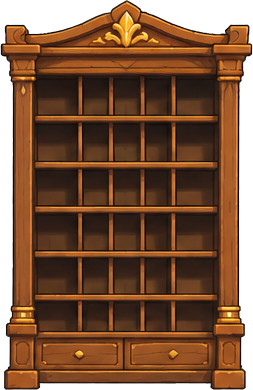
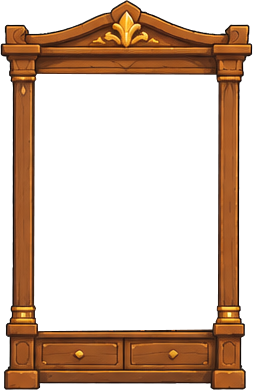
fix: image

diff --git a/src/game/scenes/Game.ts b/src/game/scenes/Game.ts
@@ -11,14 +11,14 @@ import { LevelFeedbackManager } from "../core/LevelFeedbackManager";
 
 export class Game extends Scene {
   private readonly CONFIG = {
-    bookcasesCount: 6,
-    bookcaseGapX: 20,
+    bookcasesCount: 3,
+    bookcaseGapX: 76,
     shelvesCount: 6,
     slotsPerShelf: 9,
     slotWidth: 18,
     slotHeight: 32,
     gapX: 1,
-    gapY: 4,
+    gapY: 8,
     startY: 80,
   };
 
@@ -47,7 +47,6 @@ export class Game extends Scene {
   create() {
     this.handManager = new HandManager(this, this.levelConfig.pickupStrategy);
     this.feedback = new LevelFeedbackManager(this);
-    // 1. НАСТРОЙКИ ГЕНЕРАЦИИ
 
     const {
       bookcasesCount,
@@ -66,20 +65,34 @@ export class Game extends Scene {
     const outlineHeight = slotHeight + padding * 2;
 
     // 🌟 1. ВЫЧИСЛЕНИЕ ЦЕНТРИРОВАНИЯ
-    // Общая ширина всех шкафов + все промежутки между ними
     const totalWidth = bookcasesCount * outlineWidth + (bookcasesCount - 1) * bookcaseGapX;
-
-    // Получаем ширину игрового экрана и находим стартовую точку X
     const screenWidth = this.scale.width;
     const startX = (screenWidth - totalWidth) / 2;
 
+    // Вычисляем центр по Y для всего блока полок (он одинаков для всех шкафов)
+    const totalShelvesHeight = shelvesCount * (slotHeight + gapY);
+    const centerShelvesY = startY - 14 + totalShelvesHeight / 2;
+
     // 2. ГЕНЕРАЦИЯ ШКАФОВ, ПОЛОК И СЛОТОВ
     for (let b = 0; b < bookcasesCount; b++) {
-      // Базовая X-координата для слотов текущего шкафа
       const currentStartX = startX + b * (outlineWidth + bookcaseGapX);
+      const outlineX = currentStartX - 7;
+
+      // 🌟 2.1 ДОБАВЛЯЕМ ИЗОБРАЖЕНИЕ ШКАФА "КАК ЕСТЬ"
+      // Находим центр текущей зоны слотов по X
+      const bookcaseCenterX = currentStartX + outlineWidth / 2;
+
+      const bookcaseBg = this.add.image(bookcaseCenterX, centerShelvesY, "bookcase");
+      bookcaseBg.x -= 7;
+      bookcaseBg.y -= 10;
+      bookcaseBg.setScale(0.92).setDepth(0); // 🌟 Убираем на самый задний план
+
+      // 💡 СОВЕТ: Если твой арт имеет специфическую точку привязки (origin)
+      // и визуально немного смещен относительно слотов, подправь его здесь:
+      // bookcaseBg.x += 10; // Сдвинуть вправо на 10px
+      // bookcaseBg.y -= 5;  // Сдвинуть вверх на 5px
 
       for (let s = 0; s < shelvesCount; s++) {
-        const outlineX = currentStartX - 7;
         const outlineY = startY - 14 + s * (slotHeight + gapY);
 
         const shelf = new Shelf(this, outlineX, outlineY, outlineWidth, outlineHeight, b, s);
@@ -102,15 +115,12 @@ export class Game extends Scene {
 
     // 3. РАЗБРАСЫВАЕМ КНИГИ ПО ПОЛУ
     this.books.forEach((book) => {
-      // Случайная позиция в нижней части экрана (зона "пола")
-      const floorX = Phaser.Math.Between(50, 1200);
+      const floorX = Phaser.Math.Between(50, screenWidth - 50);
       const floorY = Phaser.Math.Between(500, 640);
 
       book.setPosition(floorX, floorY);
-      book.setRotation(Phaser.Math.DegToRad(Phaser.Math.Between(-45, 45))); // Случайный наклон
-
-      // Устанавливаем глубину, чтобы книги на полу были под книгами в руке
-      book.setDepth(5);
+      book.setRotation(Phaser.Math.DegToRad(Phaser.Math.Between(-45, 45)));
+      book.setDepth(5); // Книги на полу выше фона (0), но ниже руки (100+)
       this.add.existing(book);
     });
 
